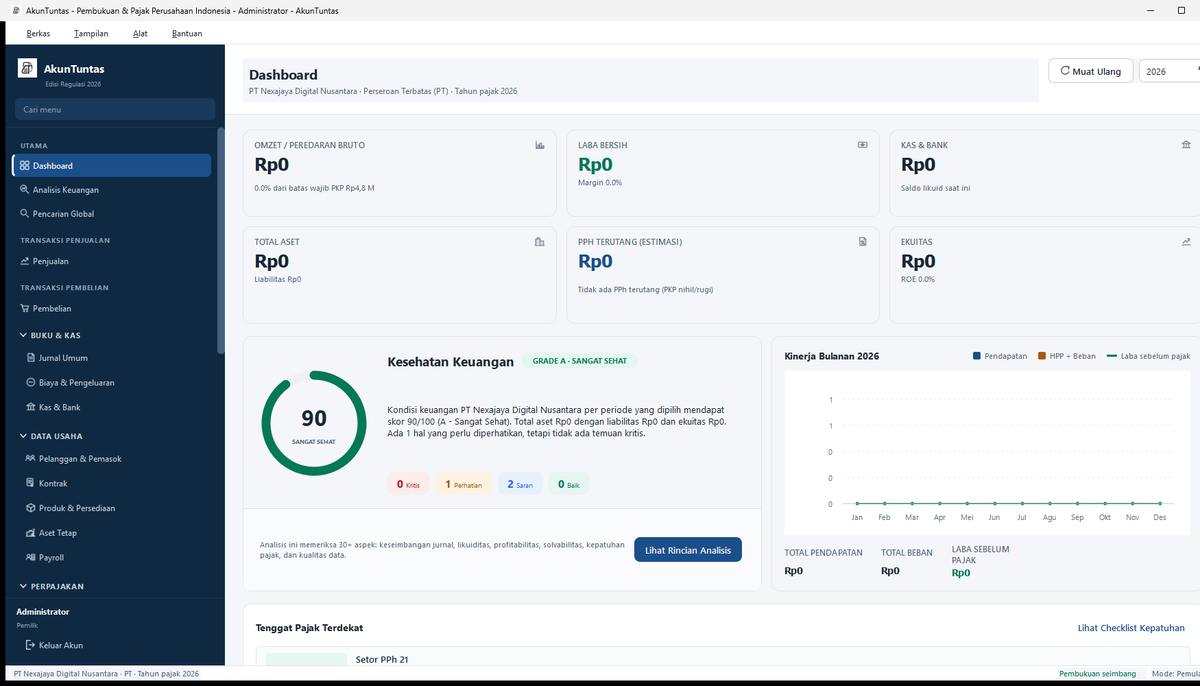
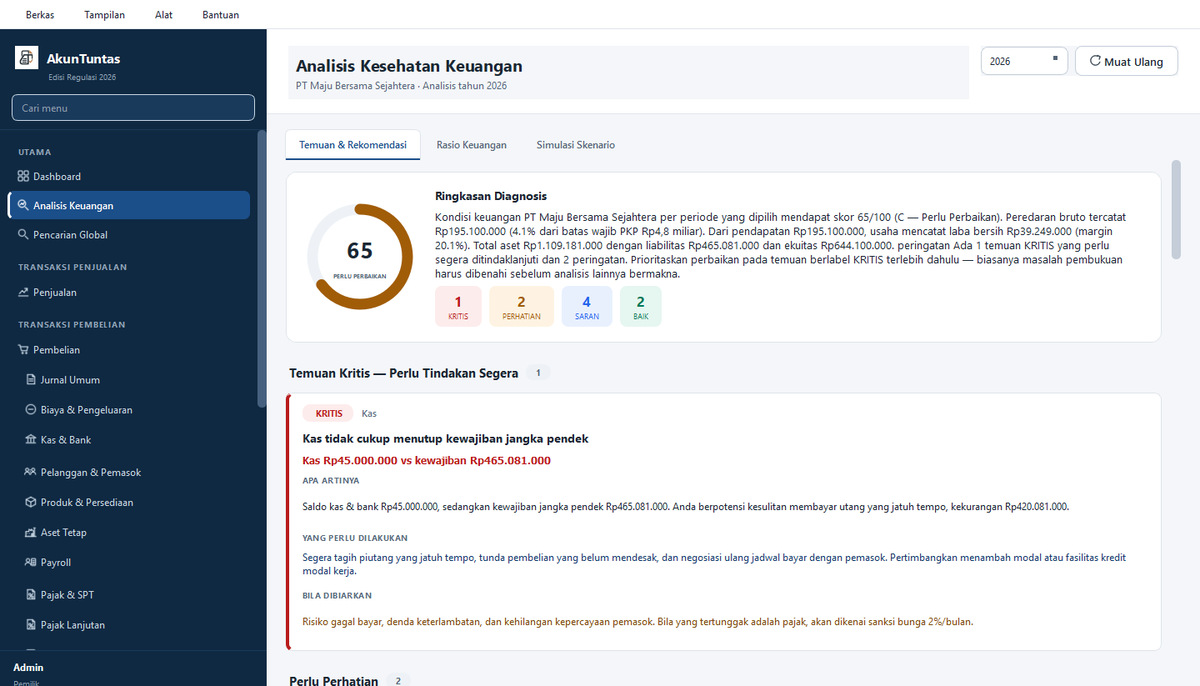
Show AkunTuntas' charts in the ecosystem mosaic instead of empty axes
Two of the four AkunTuntas tiles were captured from a company with no transactions,
so the dashboard drew "Rp -" and the charts rendered empty axes. A screenshot of an
empty chart says nothing about what the product does, which is the whole job of that
section.

They now use the Dashboard and the Financial analysis screens from the design set,
which show the cash-flow donut, the monthly bars, the health-score gauge and the
real totals. Those screens are the same application UI as the shipped captures
(measured 2.1 apart on a normalised comparison, where the same screen scores under
3), so nothing about the product's identity changes; only the data is present.

The mosaic now has three tiles with populated charts and non-zero figures, and no
tile reads as empty or sparse. Verified 9/9: every tile's file ratio still matches
its rendered tile ratio.

Also seeds the company itself (separately, not part of this repo) so the app can be
captured with data in future: 138 balanced journal entries, 40 invoices and 18
bills for 2026, written only into empty transaction tables after backing up the
database.

diff --git a/src/components/sections/ecosystem-reveal.tsx b/src/components/sections/ecosystem-reveal.tsx
@@ -39,9 +39,16 @@ import { TileReveal } from "@/components/reactbits/TileReveal";
  * widest gap in the set).
  *
  * AkunTuntas supplies four screens, so they sit at the corners: no two corners are
- * edge-adjacent in a 3x3 grid, so its three similar table views are never neighbours.
+ * edge-adjacent in a 3x3 grid, so its similar table views are never neighbours.
  * The worst edge-adjacent pair in this arrangement measures 25.6, where anything
  * under 12 would read as a duplicate.
+ *
+ * Two of its four tiles are the Dashboard and the Financial analysis, taken from
+ * the design set rather than from an empty company. Captures of an unseeded company
+ * render "Rp -" and draw no chart at all, so those screens showed empty axes and
+ * said nothing about what the product does. The design set is the same UI (measured
+ * 2.1 apart on a normalised comparison) captured with real figures, so the donut,
+ * the monthly bars and the health gauge actually appear.
  *
  * Only SECONDARY captures belong here. The five featured cards further down
  * this same page already show each product's main screen, and five of the old
@@ -62,7 +69,7 @@ import { TileReveal } from "@/components/reactbits/TileReveal";
  */
 const SHOTS: { src: string; alt: string }[] = [
   // Row 1
-  { src: "/products/mosaic-akun-ledger.webp", alt: "AkunTuntas general ledger with posted transactions" }, // 206 light
+  { src: "/products/mosaic-akun-ledger.webp", alt: "AkunTuntas dashboard: cash-flow donut, monthly bars and the key totals" }, // 198 light
   { src: "/products/mosaic-lumawall-catalog.webp", alt: "LumaWall catalog: category filters and the wallpaper detail panel" }, // 55 dark
   { src: "/products/mosaic-akun-coa.webp", alt: "AkunTuntas chart of accounts with the full account tree" }, // 205 light
   // Row 2
@@ -72,7 +79,7 @@ const SHOTS: { src: string; alt: string }[] = [
   // Row 3
   { src: "/products/mosaic-akun-partners.webp", alt: "AkunTuntas business partners with contact records" }, // 207 light
   { src: "/products/mosaic-saybot-inbox.webp", alt: "SayBot unified inbox: every channel and contact in one workspace" }, // 13 dark
-  { src: "/products/mosaic-akun-dashboard.webp", alt: "AkunTuntas dashboard: financial health and period summaries" }, // 209 light
+  { src: "/products/mosaic-akun-dashboard.webp", alt: "AkunTuntas financial analysis: the health score gauge and its insights" }, // 203 light
 ];
 
 export function EcosystemReveal() {

diff --git a/scripts/build-mosaic-tiles.py b/scripts/build-mosaic-tiles.py
@@ -63,6 +63,14 @@ OUT_H = int(round(OUT_W / TILE_ASPECT))
 # by scripts/build-lumawall-captures.py.
 LW = S / "luma-clean"
 
+# AkunTuntas' chart screens come from the design set on the Desktop. They are the
+# same application UI as the shipped captures (measured 2.1 apart on a normalised
+# comparison, where the same screen scores under 3), but they were taken with real
+# figures, so the donut, bar chart and health gauge actually render. Captures taken
+# from an empty company show "Rp -" and draw nothing, which says nothing about what
+# the product does.
+AK = Path(r"C:\Users\ariel\Desktop\Hasil-Redesign-AkunTuntas")
+
 # (output name, source, product, expected tone, what the screen shows)
 #
 # LAYOUT: a dark MIDDLE COLUMN rather than a full checkerboard.
@@ -82,8 +90,8 @@ LW = S / "luma-clean"
 # side. Worst edge-adjacent similarity across the grid is 25.6, where anything under
 # 12 would read as a duplicate.
 TILES = [
-    ("mosaic-akun-ledger.webp", S / "raw" / "akuntuntas-2.png",
-     "AkunTuntas", "light", "General ledger with posted transactions"),
+    ("mosaic-akun-ledger.webp", AK / "1-Dashboard.png",
+     "AkunTuntas", "light", "Dashboard: cash-flow donut, monthly bars and the key totals"),
     ("mosaic-lumawall-catalog.webp", LW / "catalog.png",
      "LumaWall", "dark", "Catalog: category filters and the wallpaper detail panel"),
     ("mosaic-akun-coa.webp", S / "raw" / "akuntuntas-3.png",
@@ -100,8 +108,8 @@ TILES = [
      "AkunTuntas", "light", "Business partners with contact records"),
     ("mosaic-saybot-inbox.webp", S / "raw" / "saybot-2.png",
      "SayBot", "dark", "Unified inbox: every channel and contact in one workspace"),
-    ("mosaic-akun-dashboard.webp", S / "raw" / "akun-laporan.png",
-     "AkunTuntas", "light", "Dashboard: financial health and period summaries"),
+    ("mosaic-akun-dashboard.webp", AK / "2-Analisis-Keuangan.png",
+     "AkunTuntas", "light", "Financial analysis: the health score gauge and its insights"),
 ]
 
 
